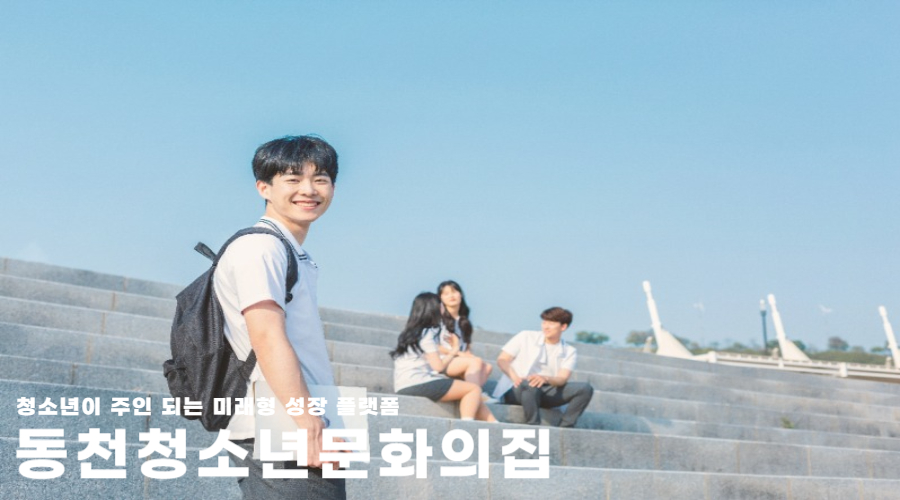
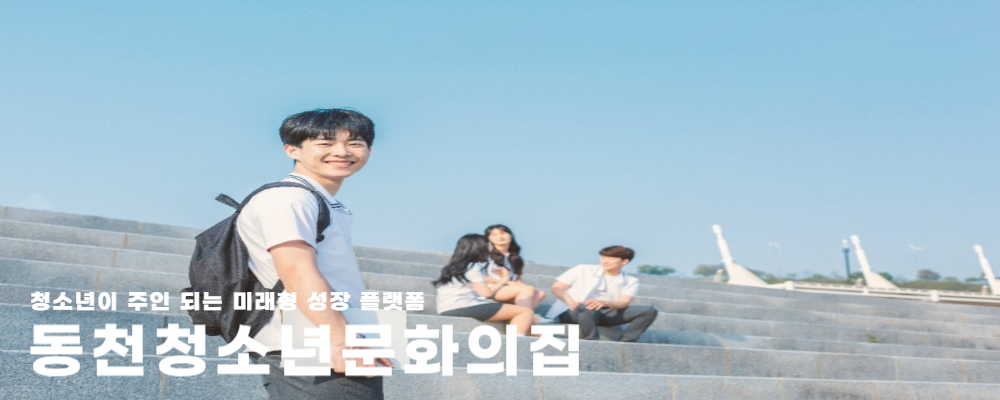
188

diff --git a/public/styles.css b/public/styles.css
@@ -26,7 +26,7 @@ body {
     position: relative;
     width: 100%;
     height: 0;
-    padding-bottom: 55.56%; /* 1.8:1 비율 (100/1.8 = 55.56%) */
+    padding-bottom: 40%; /* 2.5:1 비율 (100/2.5 = 40%) */
     min-height: 200px;
     max-height: 400px;
     overflow: hidden;
@@ -391,7 +391,7 @@ body {
 
 .logo-marquee {
     width: 100%;
-    height: 35px;
+    height: 30px;
     overflow: hidden;
     position: relative;
 }
@@ -405,8 +405,8 @@ body {
 }
 
 .footer-logo {
-    width: 35px;
-    height: 35px;
+    width: 30px;
+    height: 30px;
     object-fit: contain;
     object-position: center;
     flex-shrink: 0;
@@ -443,7 +443,7 @@ body {
 /* 반응형 디자인 */
 @media (max-width: 768px) {
     .banner-section {
-        padding-bottom: 55.56%; /* 1.8:1 비율 유지 */
+        padding-bottom: 40%; /* 2.5:1 비율 유지 */
         min-height: 180px;
         max-height: 300px;
     }
@@ -515,12 +515,12 @@ body {
     }
     
     .logo-marquee {
-        height: 30px;
+        height: 25px;
     }
     
     .footer-logo {
-        width: 30px;
-        height: 30px;
+        width: 25px;
+        height: 25px;
     }
     
     .logo-track {
@@ -530,7 +530,7 @@ body {
 
 @media (max-width: 480px) {
     .banner-section {
-        padding-bottom: 55.56%; /* 1.8:1 비율 유지 */
+        padding-bottom: 40%; /* 2.5:1 비율 유지 */
         min-height: 150px;
         max-height: 250px;
     }
@@ -616,12 +616,12 @@ body {
     }
     
     .logo-marquee {
-        height: 25px;
+        height: 20px;
     }
     
     .footer-logo {
-        width: 25px;
-        height: 25px;
+        width: 20px;
+        height: 20px;
     }
     
     .logo-track {
